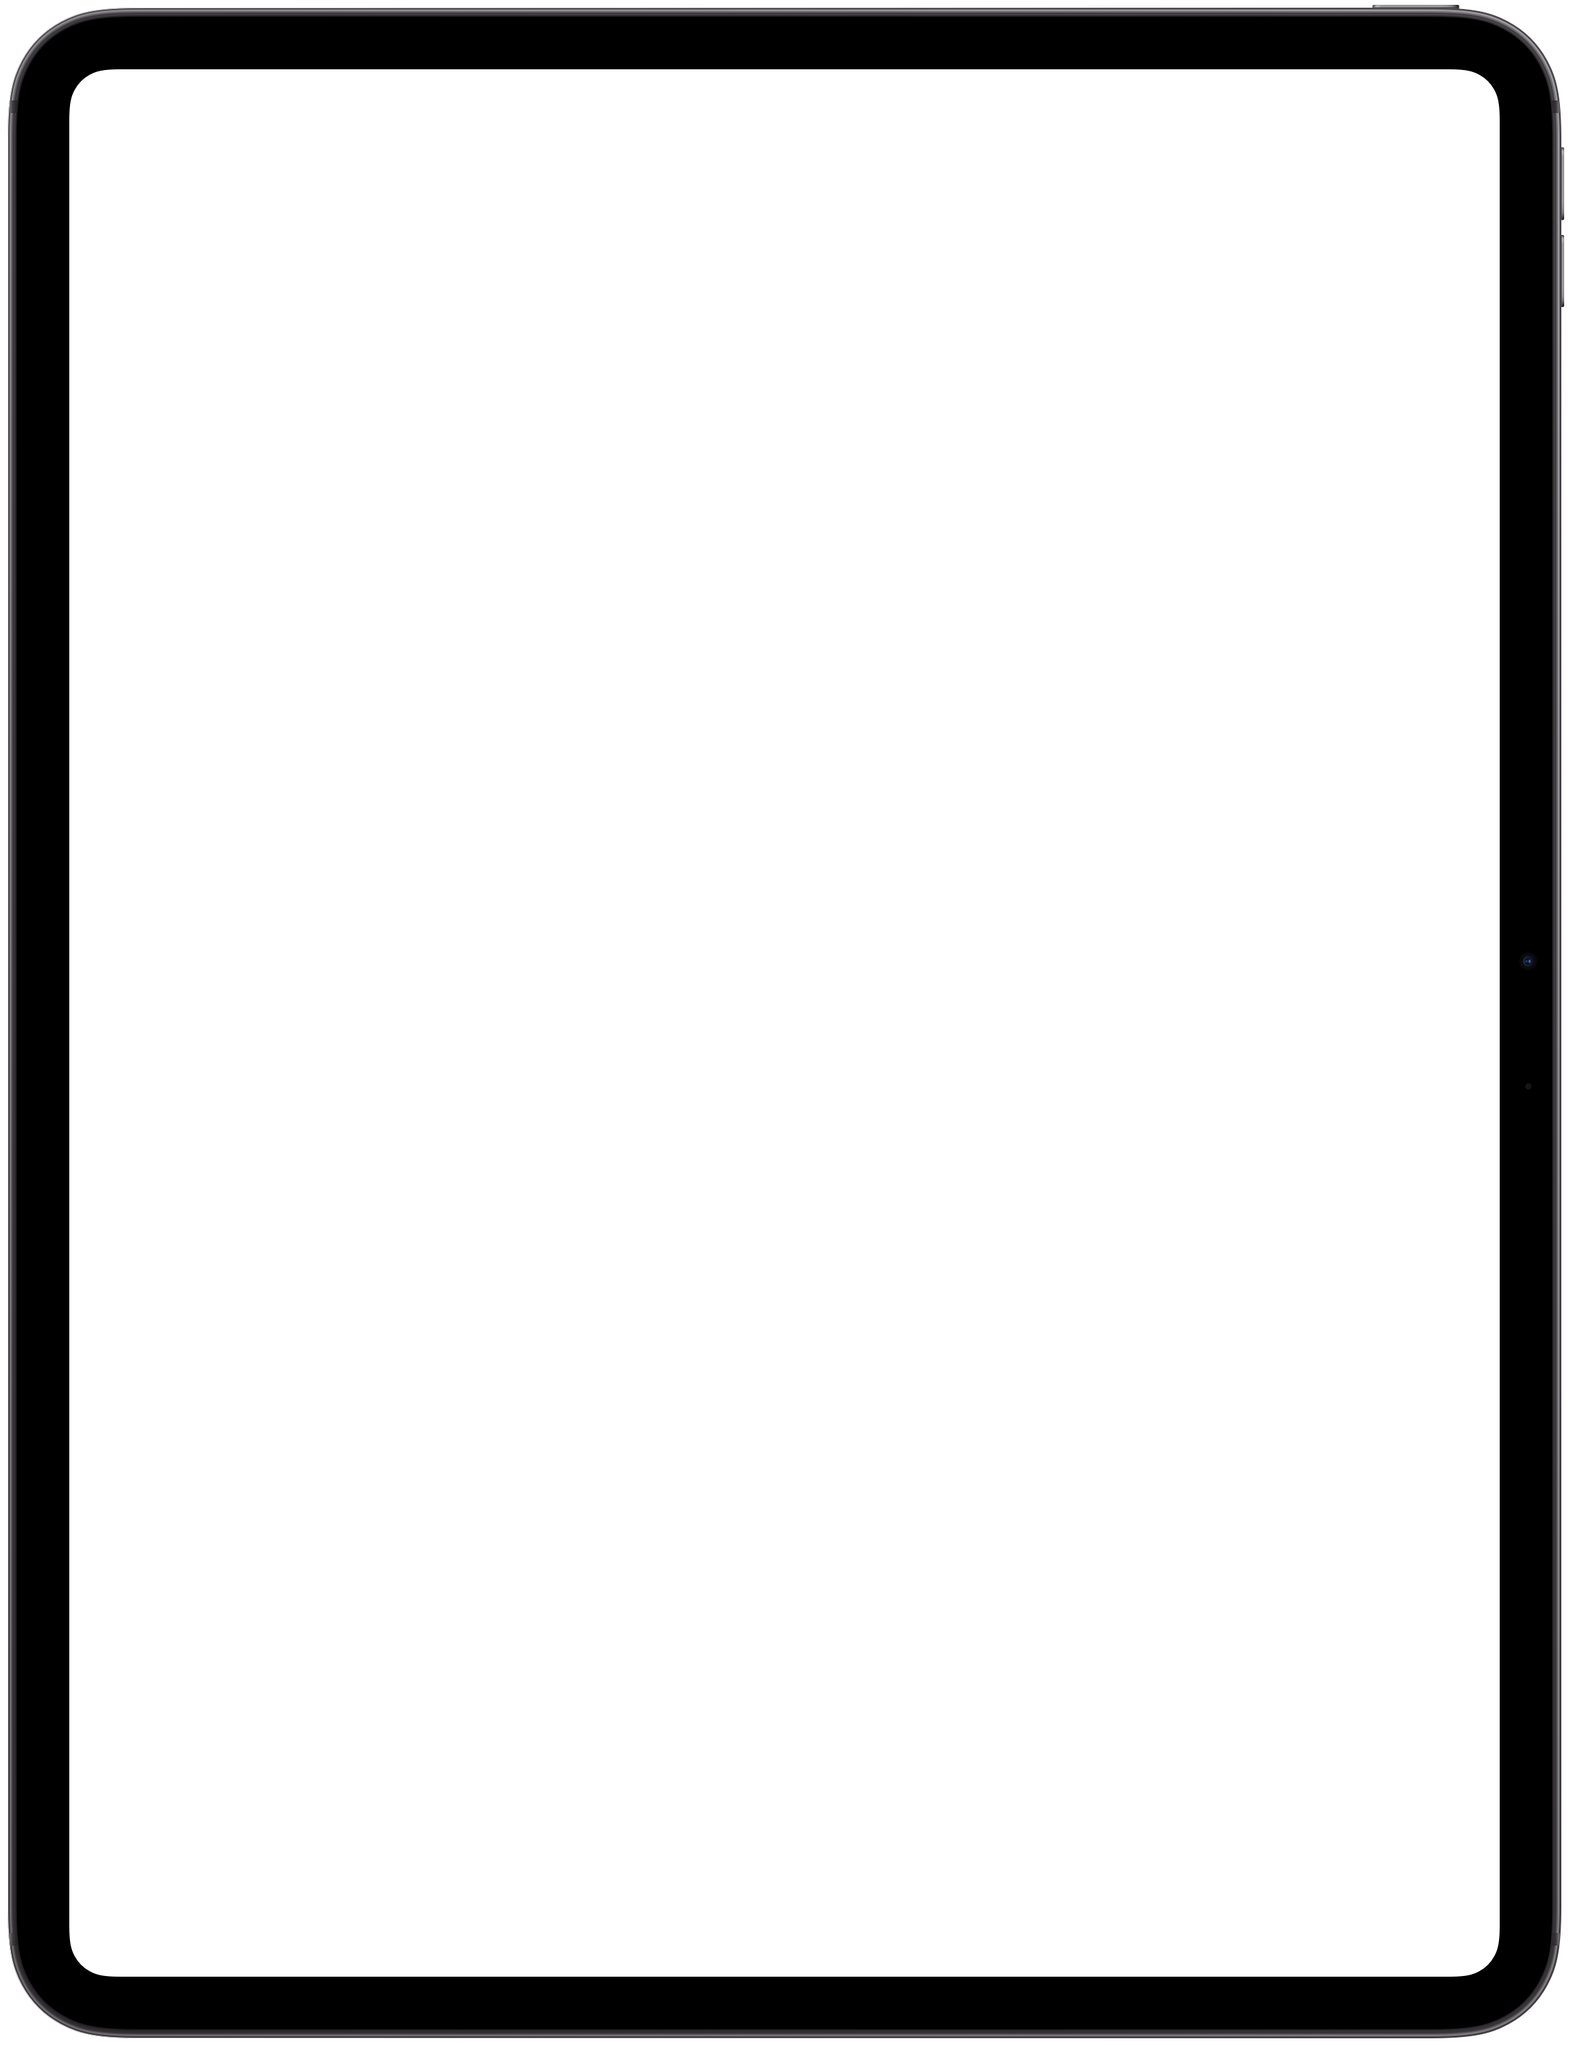
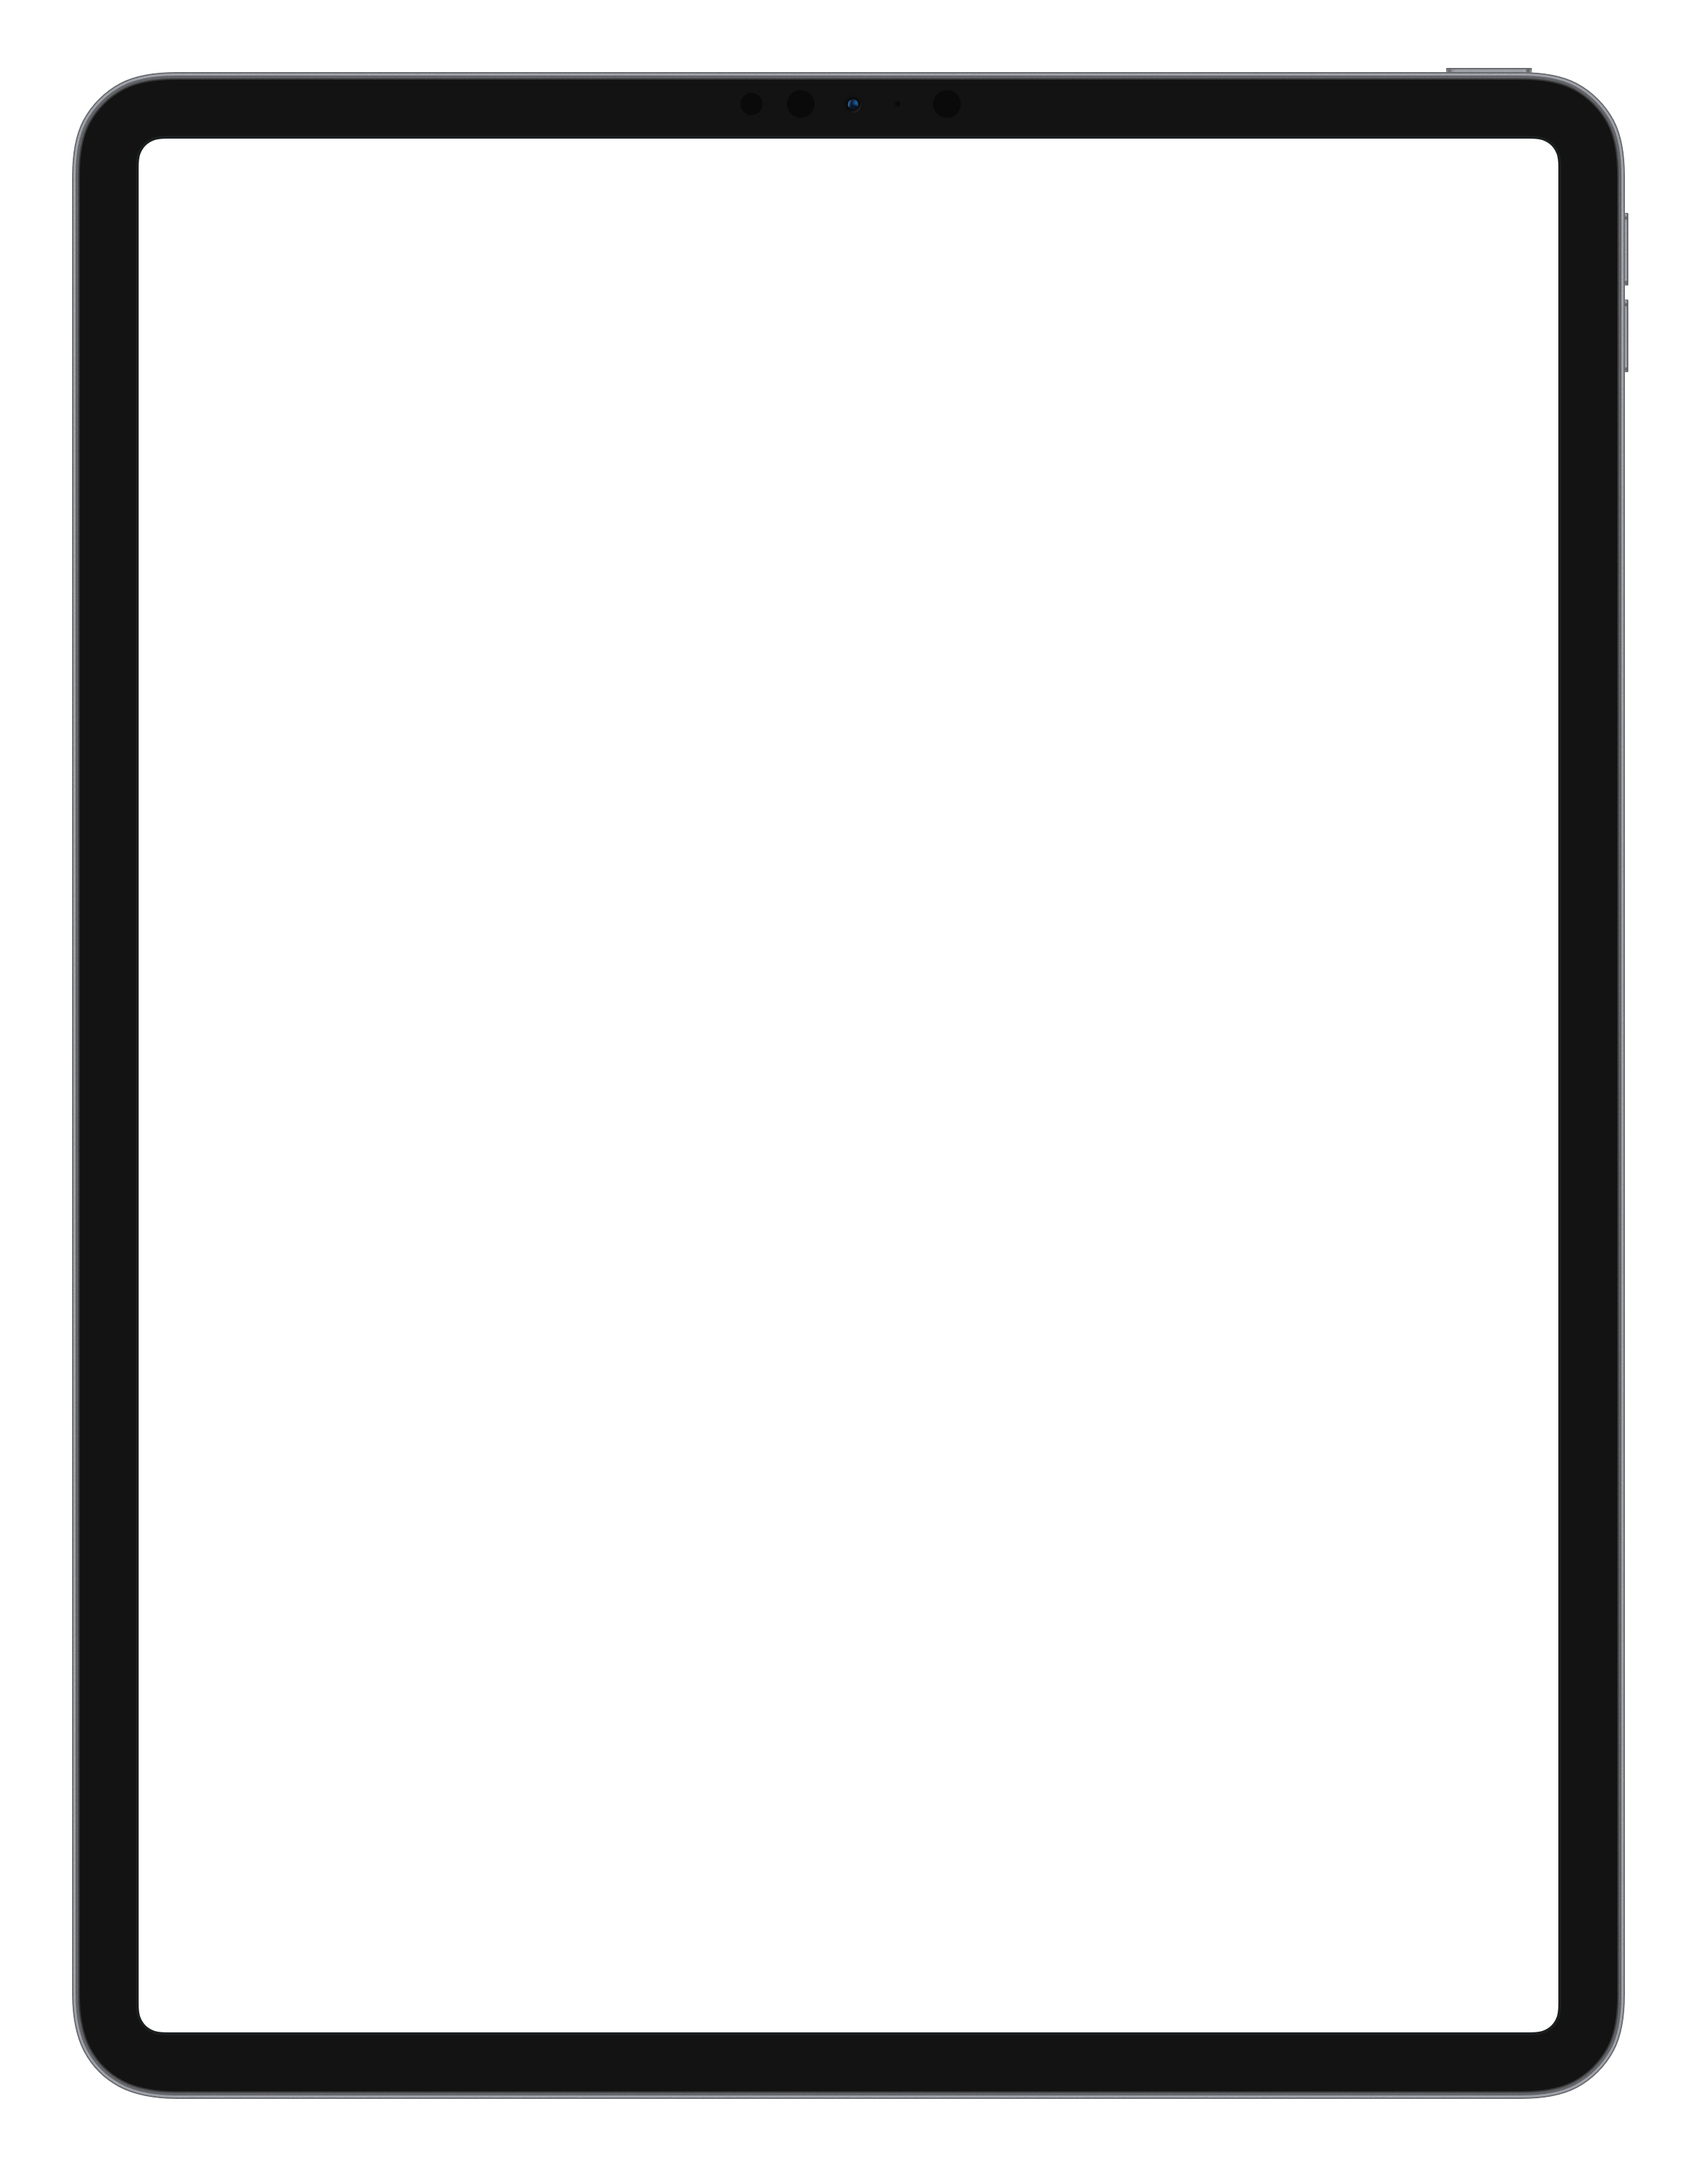
feat(frames): register new frames in metadata and picker
- Add FRAME_INSETS for iphone13-pro, iphone13-pro-max, galaxy-s21,
  galaxy-s21-ultra, ipad-air-2020
- Update DEVICE_FRAME_OPTIONS with labels and platform mappings
- Update FramePicker ICONS for new frames
- Update iPad Pro frame PNGs with corrected insets
- Set Wear OS defaultFrame to null (simple-dark removed)

Changed region(s): [[0.0, 0.0, 1.0, 0.9973]]

diff --git a/src/utils/frameMeta.js b/src/utils/frameMeta.js
@@ -44,36 +44,75 @@ export const FRAME_INSETS = {
     width: 1520,
     height: 3068,
   },
+  'iphone13-pro': {
+    ext: 'png',
+    top: 155,
+    right: 160,
+    bottom: 155,
+    left: 160,
+    rx: 100,
+    width: 1570,
+    height: 2932,
+  },
+  'iphone13-pro-max': {
+    ext: 'png',
+    top: 155,
+    right: 160,
+    bottom: 160,
+    left: 160,
+    rx: 105,
+    width: 1684,
+    height: 3178,
+  },
   'ipad-pro-13': {
     ext: 'png',
-    top: 100,
-    right: 100,
-    bottom: 100,
-    left: 100,
+    top: 115,
+    right: 115,
+    bottom: 115,
+    left: 115,
     rx: 55,
-    width: 2264,
-    height: 2952,
+    width: 2448,
+    height: 3132,
   },
   'ipad-pro': {
     ext: 'png',
-    top: 100,
-    right: 101,
-    bottom: 100,
-    left: 99,
+    top: 116,
+    right: 116,
+    bottom: 116,
+    left: 116,
     rx: 50,
-    width: 1868,
-    height: 2620,
+    width: 2068,
+    height: 2788,
   },
-  /** Matches Blink/BoxLock Figma bezel (975x1966, rx ~82). */
-  'simple-dark': {
-    ext: 'svg',
-    top: 25,
-    right: 25,
-    bottom: 25,
-    left: 25,
-    rx: 62,
-    width: 975,
-    height: 1966,
+  'ipad-air-2020': {
+    ext: 'png',
+    top: 55,
+    right: 55,
+    bottom: 55,
+    left: 55,
+    rx: 45,
+    width: 1940,
+    height: 2660,
+  },
+  'galaxy-s21': {
+    ext: 'png',
+    top: 200,
+    right: 200,
+    bottom: 200,
+    left: 200,
+    rx: 80,
+    width: 1480,
+    height: 2800,
+  },
+  'galaxy-s21-ultra': {
+    ext: 'png',
+    top: 170,
+    right: 170,
+    bottom: 170,
+    left: 170,
+    rx: 90,
+    width: 1840,
+    height: 3600,
   },
   /** Landscape TV / monitor bezel for Play TV listings. */
   tv: {
@@ -95,13 +134,17 @@ export const FRAME_INSETS = {
 export const DEVICE_FRAME_OPTIONS = [
   { id: null, label: 'None' },
   { id: 'pixel9', label: 'Pixel 9', platforms: ['play'], formFactors: ['phone'] },
-  { id: 'galaxy-s24', label: 'Galaxy', platforms: ['play'], formFactors: ['phone'] },
-  { id: 'simple-dark', label: 'Simple Dark', platforms: ['play'], formFactors: ['wear'] },
+  { id: 'galaxy-s24', label: 'Galaxy S24', platforms: ['play'], formFactors: ['phone'] },
+  { id: 'galaxy-s21', label: 'Galaxy S21', platforms: ['play'], formFactors: ['phone'] },
+  { id: 'galaxy-s21-ultra', label: 'Galaxy S21 Ultra', platforms: ['play'], formFactors: ['phone'] },
   { id: 'tv', label: 'TV', platforms: ['play'], formFactors: ['tv'] },
   { id: 'iphone16-pro-max', label: 'iPhone 16 Pro Max', platforms: ['ios'], formFactors: ['iphone'] },
   { id: 'iphone16-pro', label: 'iPhone 16 Pro', platforms: ['ios'], formFactors: ['iphone'] },
+  { id: 'iphone13-pro-max', label: 'iPhone 13 Pro Max', platforms: ['ios'], formFactors: ['iphone'] },
+  { id: 'iphone13-pro', label: 'iPhone 13 Pro', platforms: ['ios'], formFactors: ['iphone'] },
   { id: 'ipad-pro-13', label: 'iPad Pro 13"', platforms: ['ios', 'play'], formFactors: ['ipad', 'tablet', 'chromebook'] },
   { id: 'ipad-pro', label: 'iPad Pro 11"', platforms: ['ios', 'play'], formFactors: ['ipad', 'tablet'] },
+  { id: 'ipad-air-2020', label: 'iPad Air', platforms: ['ios', 'play'], formFactors: ['ipad', 'tablet'] },
 ];
 
 /** Map store target device → form factor used by DEVICE_FRAME_OPTIONS. */
@@ -210,6 +253,11 @@ export const DEFAULT_SCREENSHOT_STYLE = {
   statusBarEnabled: false,
   /** "dark" = light icons on dark strip; "light" = dark icons on light strip. */
   statusBarTheme: 'dark',
+  /** Screenshot fit mode inside device frame: 'cover' | 'contain' | 'custom'. */
+  fitMode: 'cover',
+  /** Custom mode offset (-1 to 1, 0 = centered). */
+  fitOffsetX: 0,
+  fitOffsetY: 0,
 };
 
 export function computeFrameLayout(frameId, targetScale) {

diff --git a/src/components/FramePicker.jsx b/src/components/FramePicker.jsx
@@ -6,11 +6,16 @@ const ICONS = {
   null: Minus,
   pixel9: Smartphone,
   'galaxy-s24': Smartphone,
+  'galaxy-s21': Smartphone,
+  'galaxy-s21-ultra': Smartphone,
   tv: Tv,
   'iphone16-pro-max': Smartphone,
   'iphone16-pro': Smartphone,
+  'iphone13-pro-max': Smartphone,
+  'iphone13-pro': Smartphone,
   'ipad-pro-13': Tablet,
   'ipad-pro': Tablet,
+  'ipad-air-2020': Tablet,
   wear: Watch,
   chromebook: Monitor,
 };

diff --git a/src/utils/storeCatalog.js b/src/utils/storeCatalog.js
@@ -69,7 +69,7 @@ export const STORE_TARGETS = {
     height: 450,
     filename: 'wear_screen',
     fastlaneFolder: 'wearOsScreenshots',
-    defaultFrame: 'simple-dark',
+    defaultFrame: null,
     square: true,
   },
   'play/chromebook': {
